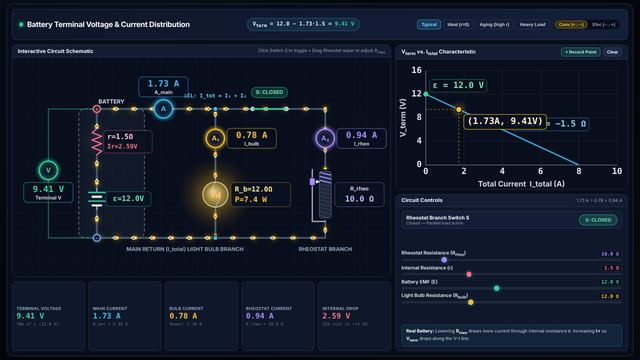
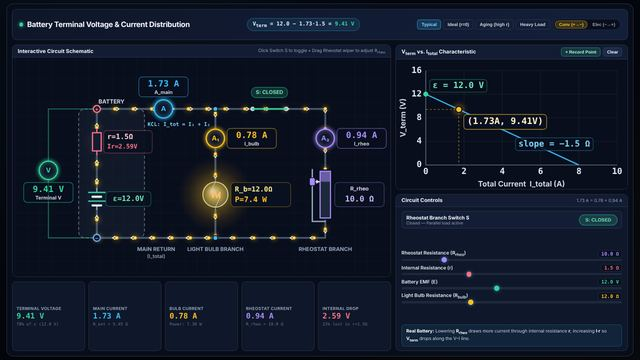
Battery Terminal Voltage: rectangle resistor symbols
- Internal resistance r drawn as a rectangle (plain wire when r = 0)
- Rheostat drawn as a rectangle with sliding contact; the length in use
  (top terminal to wiper) is shaded
- Refreshed home-page thumbnail

Claude-Session: https://claude.ai/code/session_01M6JgWFbPkV95WZFkSptFVy

diff --git a/physics/electricity-and-magnetism/battery-terminal-voltage/index.html b/physics/electricity-and-magnetism/battery-terminal-voltage/index.html
@@ -1302,20 +1302,23 @@
 
         ctx.strokeStyle = rVal === 0 ? '#64748b' : '#fb7185';
         ctx.lineWidth = 2.8;
-        ctx.lineJoin = 'round';
-        ctx.beginPath();
-        ctx.moveTo(x, top);
+        ctx.lineJoin = 'miter';
         if (rVal === 0) {
+          ctx.beginPath();
+          ctx.moveTo(x, top);
           ctx.lineTo(x, bot);
+          ctx.stroke();
         } else {
-          const peaks = 6;
-          const step = h / (peaks + 1);
-          for (let i = 1; i <= peaks; i++) {
-            ctx.lineTo(x + (i % 2 === 1 ? -11 : 11), top + step * i);
-          }
-          ctx.lineTo(x, bot);
+          // Resistor symbol: rectangle with short leads
+          const rw = 20, rh = 42, ry = cy - rh / 2;
+          ctx.beginPath();
+          ctx.moveTo(x, top); ctx.lineTo(x, ry);
+          ctx.moveTo(x, ry + rh); ctx.lineTo(x, bot);
+          ctx.stroke();
+          ctx.fillStyle = '#121c30';
+          ctx.fillRect(x - rw / 2, ry, rw, rh);
+          ctx.strokeRect(x - rw / 2, ry, rw, rh);
         }
-        ctx.stroke();
 
         // High-contrast enlarged parameter pill for r and I·r
         const px = x + 16, py = cy - 26, pw = 112, ph = 52;
@@ -1526,30 +1529,18 @@
         ctx.fillStyle = '#080e1c';
         ctx.fillRect(x - 32, top - 4, 64, coilH + 8);
 
-        // Coil core
+        // Resistor symbol (rectangle). The length in use — from the top terminal down to
+        // the wiper — is shaded, so a longer shaded part means a larger R_rheo.
+        const rw = 24;
         ctx.fillStyle = '#1e293b';
-        ctx.strokeStyle = isHighlighted ? '#c4b5fd' : '#475569';
-        ctx.lineWidth = isHighlighted ? 2 : 1.5;
-        roundRect(ctx, x - 14, top, 28, coilH, 6);
-        ctx.fill();
-        ctx.stroke();
-
-        // Windings
-        const turns = 12;
-        const step = coilH / turns;
-        for (let i = 0; i < turns; i++) {
-          const yA = top + i * step + 3;
-          const yB = yA + step * 0.65;
-          const active = yA <= wiperY + 1;
-          ctx.strokeStyle = active
-            ? (isClosed ? '#a78bfa' : '#64748b')
-            : 'rgba(100, 116, 139, 0.34)';
-          ctx.lineWidth = active ? 2.5 : 1.6;
-          ctx.beginPath();
-          ctx.moveTo(x - 12, yA);
-          ctx.lineTo(x + 12, yB);
-          ctx.stroke();
-        }
+        ctx.fillRect(x - rw / 2, top, rw, coilH);
+        const activeH = Math.max(0, wiperY - top);
+        ctx.fillStyle = isClosed ? 'rgba(167, 139, 250, 0.55)' : 'rgba(100, 116, 139, 0.45)';
+        ctx.fillRect(x - rw / 2, top, rw, activeH);
+        ctx.strokeStyle = isHighlighted ? '#c4b5fd' : (isClosed ? '#a78bfa' : '#64748b');
+        ctx.lineWidth = isHighlighted ? 3 : 2.6;
+        ctx.lineJoin = 'miter';
+        ctx.strokeRect(x - rw / 2, top, rw, coilH);
 
         // Slide bar
         const railX = x - 30;
